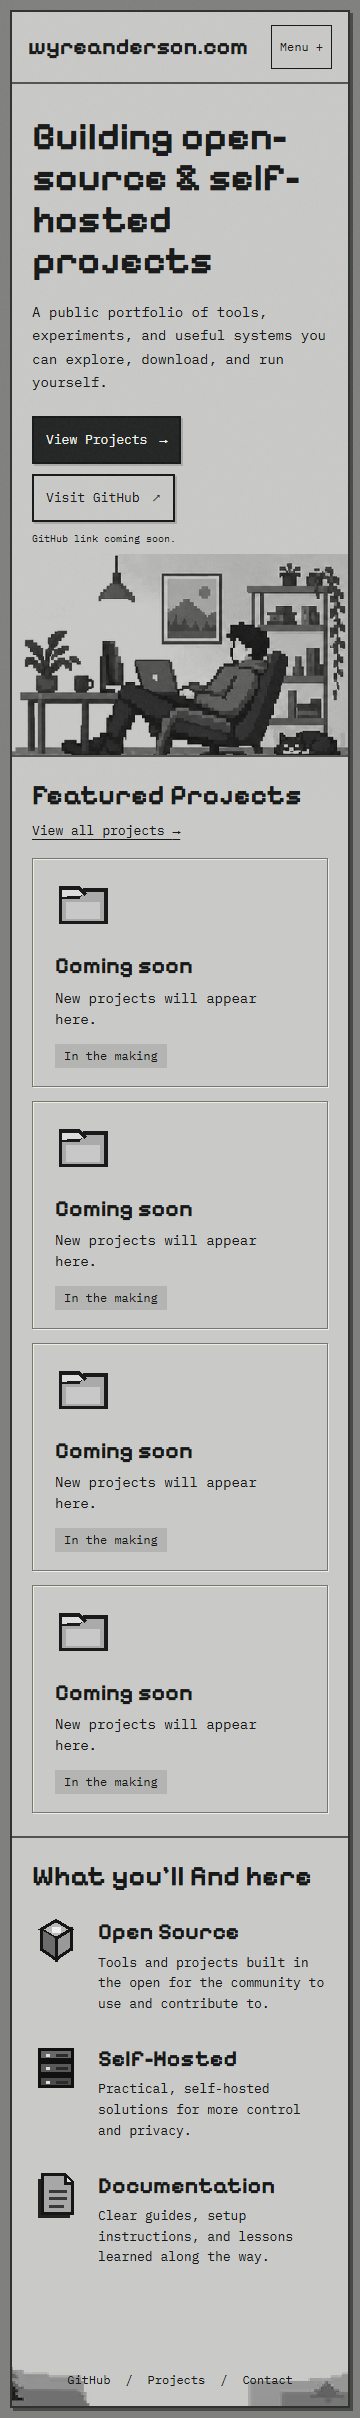
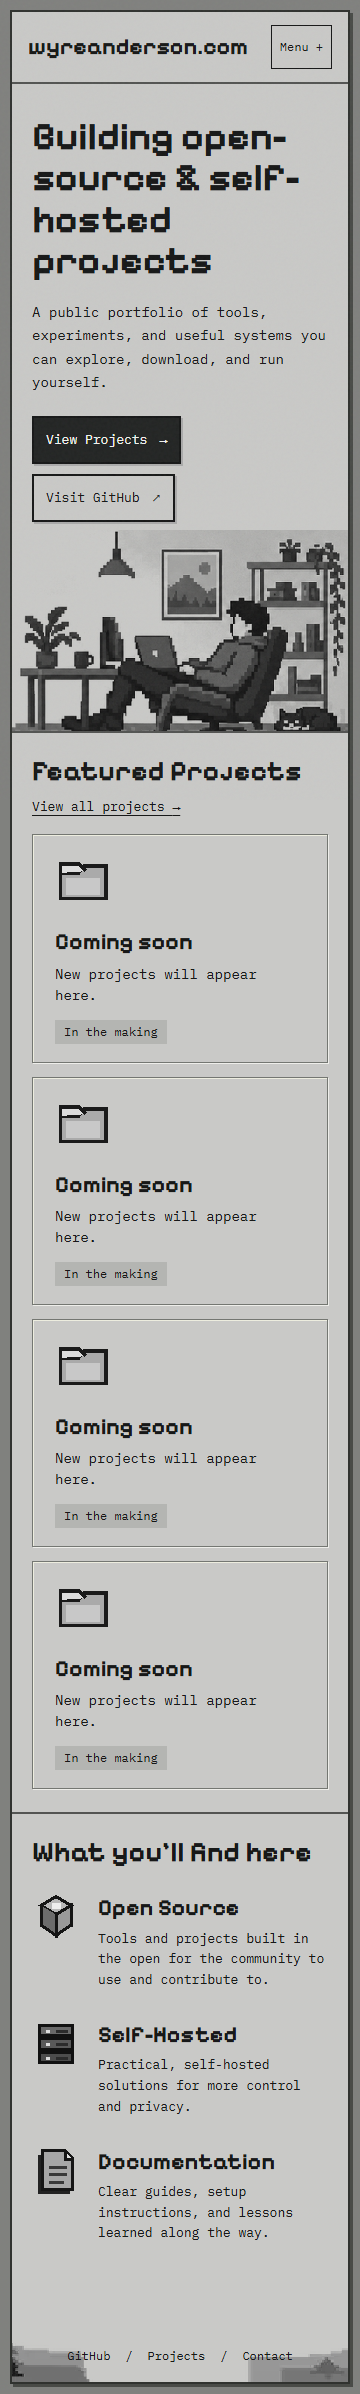
feat: activate confirmed GitHub profile links

diff --git a/tests/site.spec.ts b/tests/site.spec.ts
@@ -51,7 +51,7 @@ for (const [name, width, height] of [
     await expect(page.locator(".placeholder")).toHaveCount(4);
     await expect(page.locator('a[href="#"]')).toHaveCount(0);
     await expect(
-      page.locator('.hero-actions [aria-disabled="true"]'),
+      page.locator('.hero-actions a[href="https://github.com/Wyreanderson"]'),
     ).toContainText("Visit GitHub");
     for (const href of await page
       .locator('a[href^="#"]')

diff --git a/tests/components.spec.tsx b/tests/components.spec.tsx
@@ -6,7 +6,7 @@ import { site } from "../src/config/site";
 import type { Project } from "../src/content/projects";
 
 test("external link configuration and safe rendering", () => {
-  expect(site.githubUrl).toBeNull();
+  expect(site.githubUrl).toBe("https://github.com/Wyreanderson");
   expect(site.contactEmail).toBeNull();
   const disabled = renderToStaticMarkup(
     <ExternalLink href={null}>GitHub</ExternalLink>,

diff --git a/src/config/site.ts b/src/config/site.ts
@@ -3,6 +3,6 @@ export const site = {
   url: "https://wyreanderson.com",
   description:
     "A public portfolio of tools, experiments, and useful systems you can explore, download, and run yourself.",
-  githubUrl: null as string | null,
+  githubUrl: "https://github.com/Wyreanderson" as string | null,
   contactEmail: null as string | null,
 };

diff --git a/docs/QA.md b/docs/QA.md
@@ -44,3 +44,7 @@ Pendências: URL GitHub confirmada, email opcional, aprovação visual, autoriza
 | P6   | ARCHITECTURE, DEPLOYMENT, QA e README revistos com referências oficiais                                                                  | Documentação pronta; deploy, DNS e push não executados. P7/P8 dependem do proprietário.                                                        |
 
 Comandos adicionais executados: `pnpm view next version`, `pnpm view react version`, `pnpm peers check`, `pnpm exec playwright install chromium`, `pnpm format`, `git diff --check`. A tentativa `pnpm pkg set` rejeitou uma chave com dois-pontos; a configuração foi escrita diretamente e validada. Os avisos NO_COLOR/FORCE_COLOR do runner não afetaram os testes.
+
+## Atualização do GitHub
+
+Perfil confirmado pelo proprietário: https://github.com/Wyreanderson. Links ativados no cabeçalho, hero e rodapé; aviso Coming soon do GitHub removido automaticamente. Suite de 9 testes repetida com sucesso e TypeScript aprovado. Capturas atualizadas. Apenas o contacto permanece nulo; referências anteriores a GitHub pendente registam o estado inicial da V1.

diff --git a/README.md b/README.md
@@ -21,6 +21,6 @@ pnpm test
 pnpm build
 ```
 
-Adicionar projetos: editar apenas `src/content/projects.ts`, com conteúdo real e `status: 'published'`, `featured: true`. Links opcionais aceitam apenas HTTPS sem credenciais. Os quatro placeholders desaparecem quando existem destaques publicados. Configurar GitHub e contacto em `src/config/site.ts`; valores iniciais nulos são intencionais.
+Adicionar projetos: editar apenas `src/content/projects.ts`, com conteúdo real e `status: 'published'`, `featured: true`. Links opcionais aceitam apenas HTTPS sem credenciais. Os quatro placeholders desaparecem quando existem destaques publicados. Configurar GitHub e contacto em `src/config/site.ts`; GitHub confirmado e ativo; contacto permanece nulo até ser informado.
 
 Referência aprovada: `docs/approved-reference.png`. Arquitetura, QA e publicação assistida em `docs/`. Nenhum deploy ou push é executado automaticamente.
